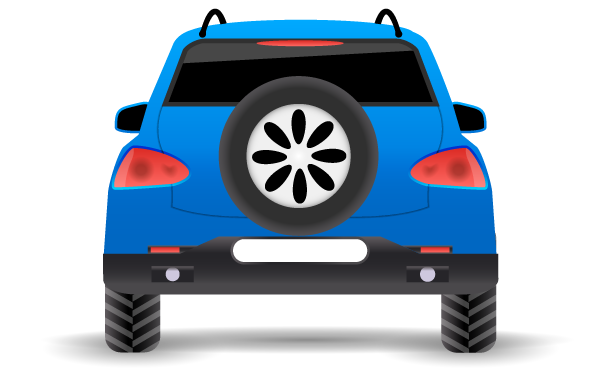
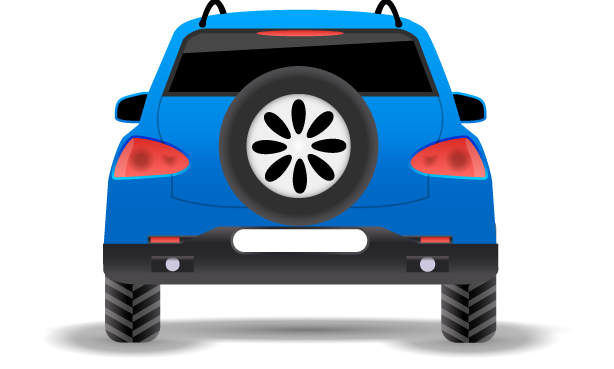
smoothed gameflow

Changed region(s): [[0.0928, 0.0, 0.8974, 0.9837], [0.3404, 0.4173, 0.3713, 0.5068], [0.8046, 0.5962, 0.8355, 0.626]]

diff --git a/games/olaRental/src/scenes/Game.js b/games/olaRental/src/scenes/Game.js
@@ -266,7 +266,7 @@ export default class Game extends Phaser.Scene
                 },
                 x: {from: this.coin1.x, to: this.coin1.x + this.scale.width/1.65},
                 y: {from: this.coin1.y, to: ((this.height - this.bgHeight) / 2) + (this.bgHeight)},
-                scale: this.coin1.scaleX * 4,
+                scale: this.coin1.scaleX * 5,
                 duration: 4000,
                 onComplete: () =>{
                     this.coin1.destroy()
@@ -282,7 +282,7 @@ export default class Game extends Phaser.Scene
                 },
                 x: {from: this.coin2.x, to: this.coin2.x - this.scale.width/1.65},
                 y: {from: this.coin2.y, to: ((this.height - this.bgHeight) / 2) + (this.bgHeight)},
-                scale: this.coin2.scaleX * 4,
+                scale: this.coin2.scaleX * 5,
                 duration: 4000,
                 onComplete: () =>{
                     this.coin2.destroy()
@@ -298,7 +298,7 @@ export default class Game extends Phaser.Scene
                 },
                 x: {from: this.coin3.x, to: this.coin3.x + this.scale.width/1.65},
                 y: {from: this.coin3.y, to: ((this.height - this.bgHeight) / 2) + (this.bgHeight)},
-                scale: this.coin3.scaleX * 4,
+                scale: this.coin3.scaleX * 5,
                 duration: 4000,
                 onComplete: () =>{
                     this.coin3.destroy()
@@ -314,7 +314,7 @@ export default class Game extends Phaser.Scene
                 },
                 x: {from: this.coin4.x, to: this.coin4.x - this.scale.width/1.65},
                 y: {from: this.coin4.y, to: ((this.height - this.bgHeight) / 2) + (this.bgHeight)},
-                scale: this.coin4.scaleX * 4,
+                scale: this.coin4.scaleX * 5,
                 duration: 4000,
                 onComplete: () =>{
                     this.coin4.destroy()
@@ -330,7 +330,7 @@ export default class Game extends Phaser.Scene
                 },
                 x: {from: this.coin5.x, to: this.coin5.x + this.scale.width/1.65},
                 y: {from: this.coin5.y, to: ((this.height - this.bgHeight) / 2) + (this.bgHeight)},
-                scale: this.coin5.scaleX * 4,
+                scale: this.coin5.scaleX * 5,
                 duration: 4000,
                 onComplete: () =>{
                     this.coin5.destroy()
@@ -346,7 +346,7 @@ export default class Game extends Phaser.Scene
                 },
                 x: {from: this.coin6.x, to: this.coin6.x - this.scale.width/1.65},
                 y: {from: this.coin6.y, to: ((this.height - this.bgHeight) / 2) + (this.bgHeight)},
-                scale: this.coin6.scaleX * 4,
+                scale: this.coin6.scaleX * 5,
                 duration: 4000,
                 onComplete: () =>{
                     this.coin6.destroy()
@@ -362,7 +362,7 @@ export default class Game extends Phaser.Scene
                 },
                 x: {from: this.coin7.x, to: this.coin7.x + this.scale.width/1.65},
                 y: {from: this.coin7.y, to: ((this.height - this.bgHeight) / 2) + (this.bgHeight)},
-                scale: this.coin7.scaleX * 4,
+                scale: this.coin7.scaleX * 5,
                 duration: 4000,
                 onComplete: () =>{
                     this.coin7.destroy()
@@ -519,8 +519,20 @@ export default class Game extends Phaser.Scene
     {
         if(this.count >= 7)
         {
-            this.scene.stop()
-            this.scene.launch('won-screen', {'car' : this.carSelected})
+            this.tweens.add({
+                targets: this.car,
+                x: this.scale.width / 2,
+                y: (this.bgHeight / 3) + ((this.height - this.bgHeight) / 2),
+                scale: this.car.scale * 0.2,
+                ease: 'Linear',
+                duration: 1500,
+            }, this)
+
+            this.time.delayedCall(1800, () => {
+                this.scene.stop()
+                this.scene.launch('won-screen', {'car' : this.carSelected})
+            }, [], this);
+            
         }
         else
         {
@@ -563,7 +575,14 @@ export default class Game extends Phaser.Scene
                     {
                         if(this.car.x > this.physics.world.bounds.width * 1.5/4)
                         {
-                            this.car.x -= this.physics.world.bounds.width/7
+                            // this.car.x -= this.physics.world.bounds.width/7
+                            this.tweens.add({
+                                targets: this.car,
+                                x: this.car.x - this.physics.world.bounds.width/7,
+                                ease: 'Linear',
+                                duration: 300,
+                                // yoyo: true
+                            }, this)
                             // rotate stering
                             this.tweens.add({
                                 targets: this.stering,
@@ -579,7 +598,14 @@ export default class Game extends Phaser.Scene
                     {
                         if(this.car.x < this.physics.world.bounds.width * 2.5/4)
                         {
-                            this.car.x += this.physics.world.bounds.width/7
+                            // this.car.x += this.physics.world.bounds.width/7 
+                            this.tweens.add({
+                                targets: this.car,
+                                x: this.car.x + this.physics.world.bounds.width/7,
+                                ease: 'Linear',
+                                duration: 300,
+                                // yoyo: true
+                            }, this)
                             // rotate stering
                             this.tweens.add({
                                 targets: this.stering,

diff --git a/games/olaRental/src/scenes/Lost.js b/games/olaRental/src/scenes/Lost.js
@@ -39,7 +39,7 @@ export default class LostScene extends Phaser.Scene
         this.road = this.add.image(this.scale.width/2, this.scale.height/2, 'final-road')
         Align.scaleToGameW(this.road, 1)
 
-        this.car = this.add.image(this.scale.width/2, this.scale.height/1.6, `loading-car${this.carSelected}`)
+        this.car = this.add.image(this.scale.width/2, 0, `loading-car${this.carSelected}`)
         Align.scaleToGameW(this.car, 1)
 
         this.loadinglogo = this.add.image(this.scale.width/2, this.scale.height/2, 'loading-logo')
@@ -51,6 +51,9 @@ export default class LostScene extends Phaser.Scene
         // bgImage width/height
         this.bgWidth = this.background.scaleX * this.background.width
         this.bgHeight = this.background.scaleX * this.background.width
+
+        // car
+        this.car.y = (this.bgHeight / 1.45) + ((this.height - this.bgHeight) / 2)
 
         // logo
         this.loadinglogo.x = this.bgWidth - this.bgWidth / 6.5

diff --git a/games/olaRental/src/scenes/Won.js b/games/olaRental/src/scenes/Won.js
@@ -39,7 +39,7 @@ export default class WonScene extends Phaser.Scene
         this.road = this.add.image(this.scale.width/2, this.scale.height/2, 'final-road')
         Align.scaleToGameW(this.road, 1)
 
-        this.car = this.add.image(this.scale.width/2, this.scale.height/1.6, `loading-car${this.carSelected}`)
+        this.car = this.add.image(this.scale.width/2, 0, `loading-car${this.carSelected}`)
         Align.scaleToGameW(this.car, 1)
 
         this.loadinglogo = this.add.image(this.scale.width/2, this.scale.height/2, 'loading-logo')
@@ -51,6 +51,9 @@ export default class WonScene extends Phaser.Scene
         // bgImage width/height
         this.bgWidth = this.background.scaleX * this.background.width
         this.bgHeight = this.background.scaleX * this.background.width
+
+        // car
+        this.car.y = (this.bgHeight / 1.45) + ((this.height - this.bgHeight) / 2)
 
         // logo
         this.loadinglogo.x = this.bgWidth - this.bgWidth / 6.5

diff --git a/games/olaRental/src/scenes/LoadingScene.js b/games/olaRental/src/scenes/LoadingScene.js
@@ -13,10 +13,10 @@ export default class LoadingScene extends Phaser.Scene
     preload()
     {
         this.load.image('loading-background', 'assets/frame1-background.webp')
-        this.load.image('loading-car1', 'assets/frame1-car1.webp')
-        this.load.image('loading-car2', 'assets/frame1-car2.webp')
-        this.load.image('loading-car3', 'assets/frame1-car3.webp')
-        this.load.image('loading-car4', 'assets/frame1-car4.webp')
+        this.load.image('loading-car1', 'assets/frame1-car1.png')
+        this.load.image('loading-car2', 'assets/frame1-car2.png')
+        this.load.image('loading-car3', 'assets/frame1-car3.png')
+        this.load.image('loading-car4', 'assets/frame1-car4.png')
         this.load.image('loading-car1mini', 'assets/frame1-car1mini.webp')
         this.load.image('loading-car2mini', 'assets/frame1-car2mini.webp')
         this.load.image('loading-car3mini', 'assets/frame1-car3mini.webp')
